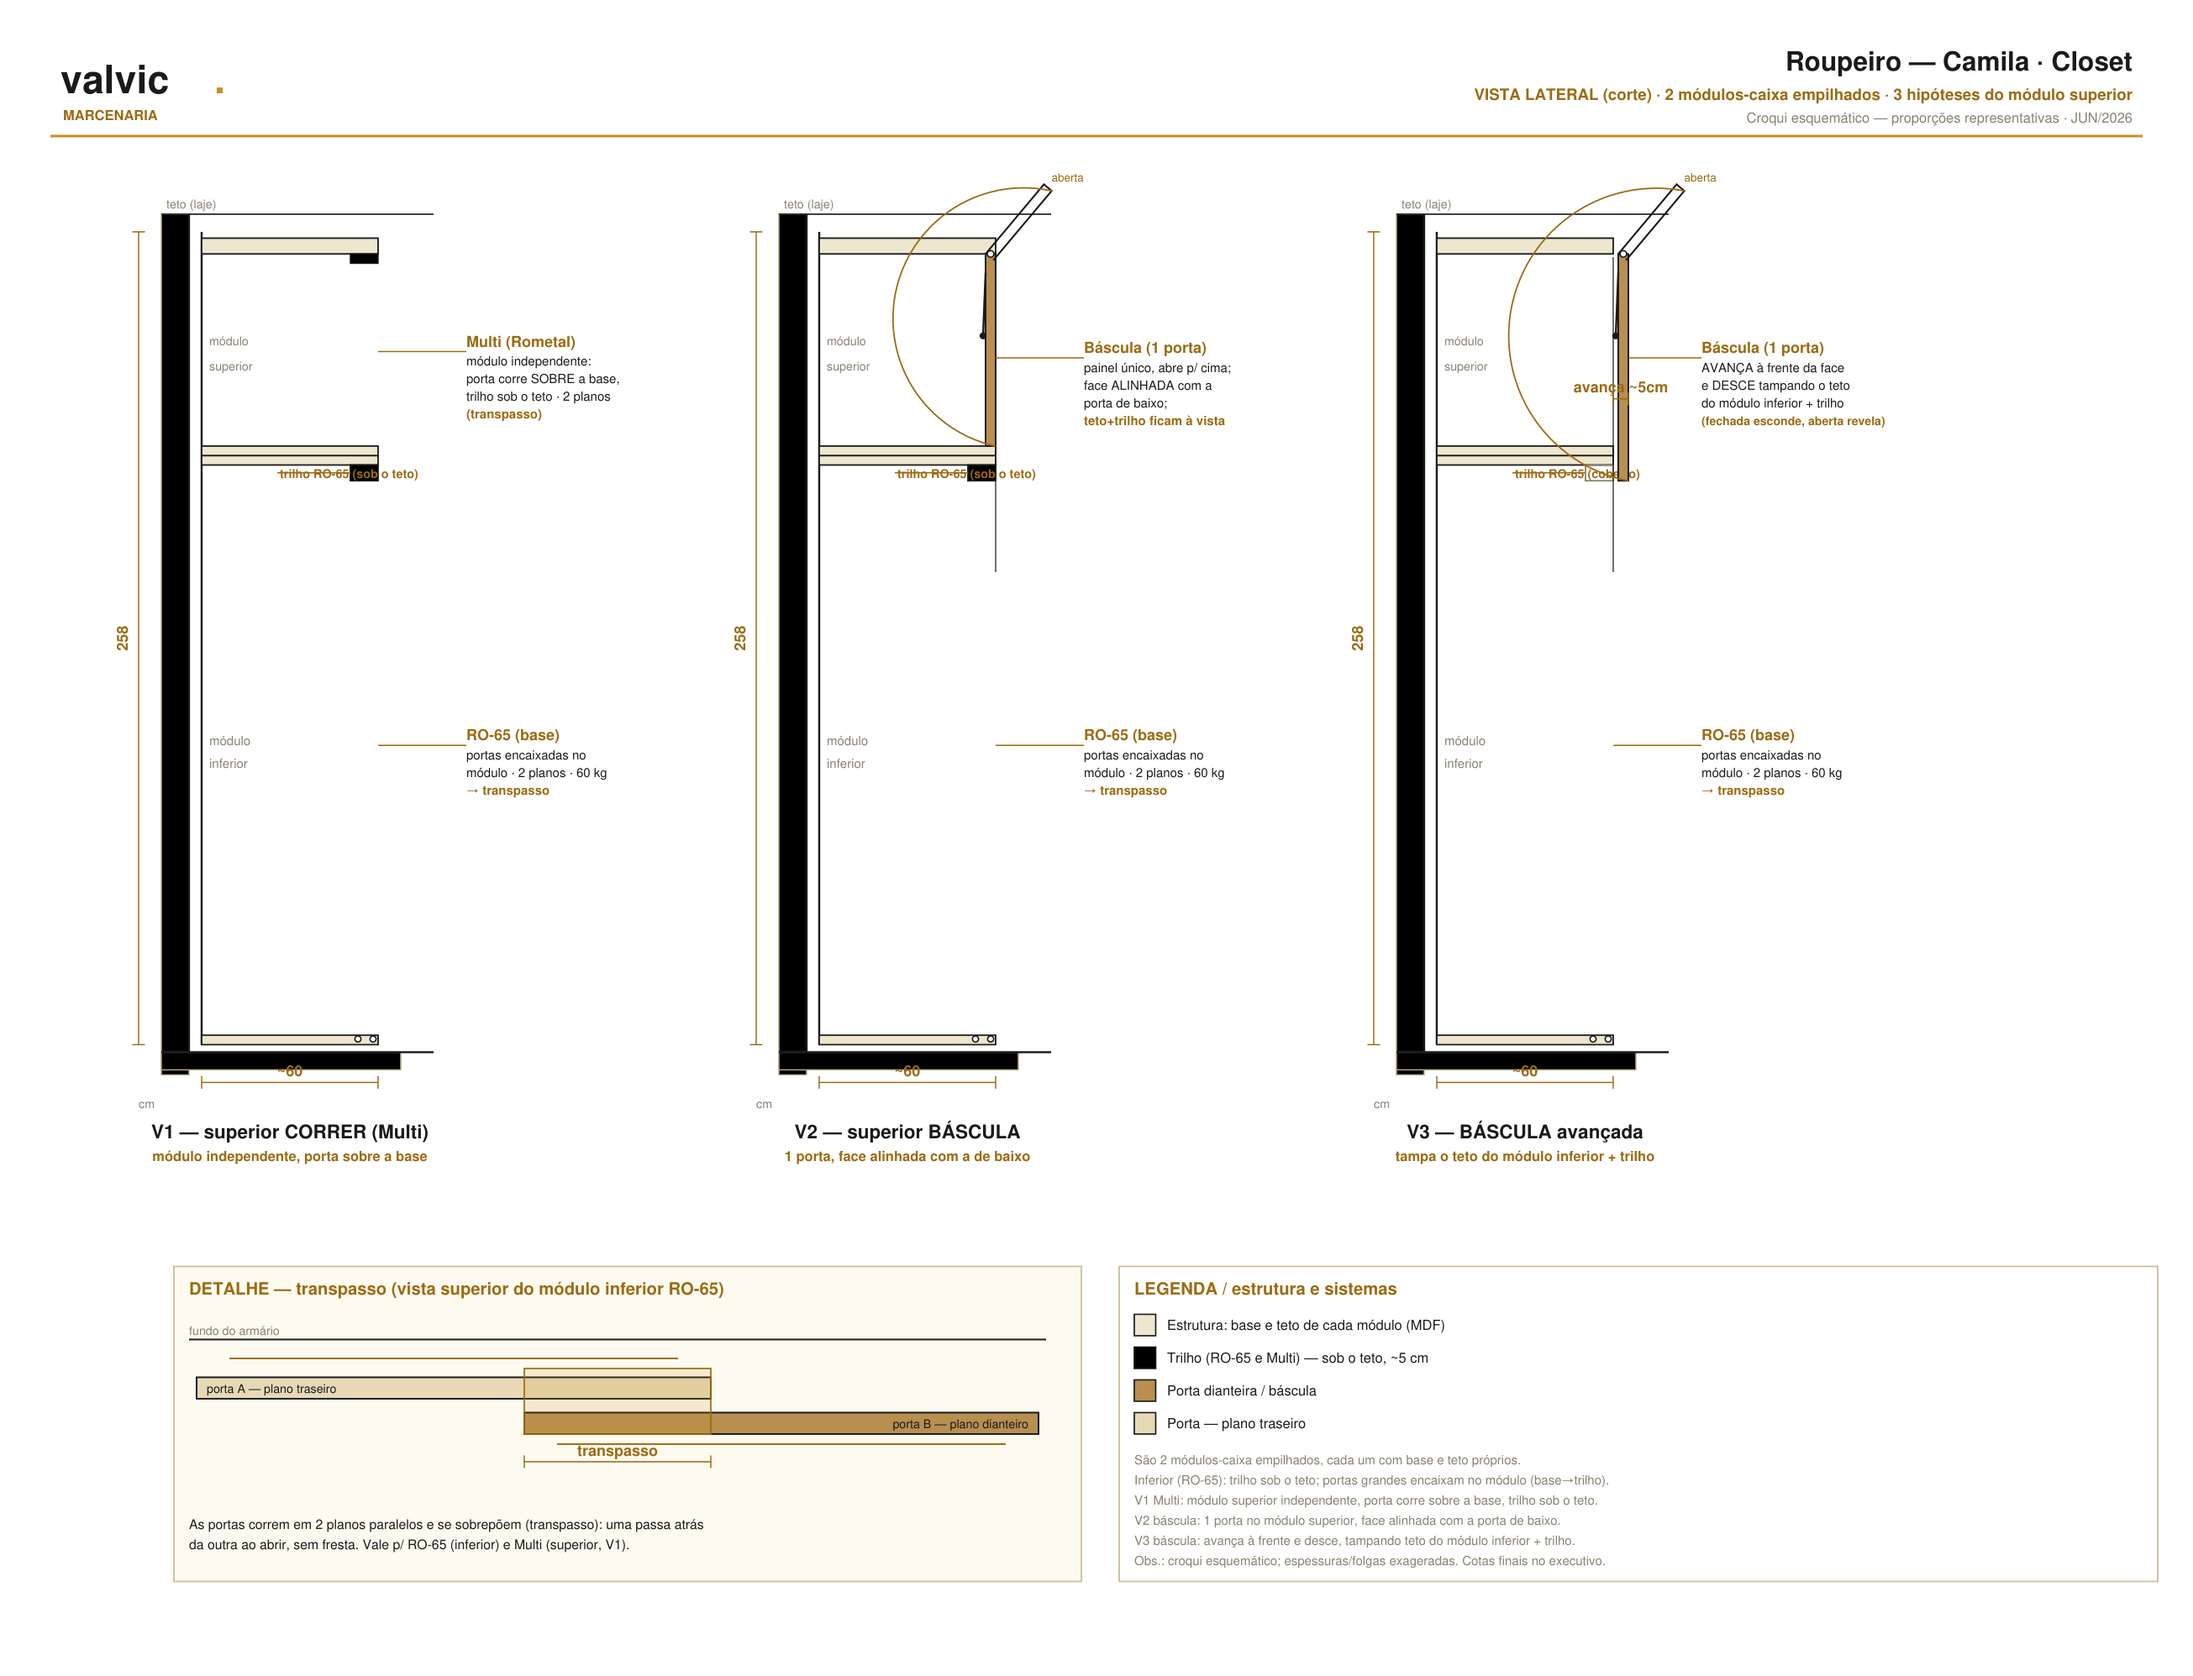
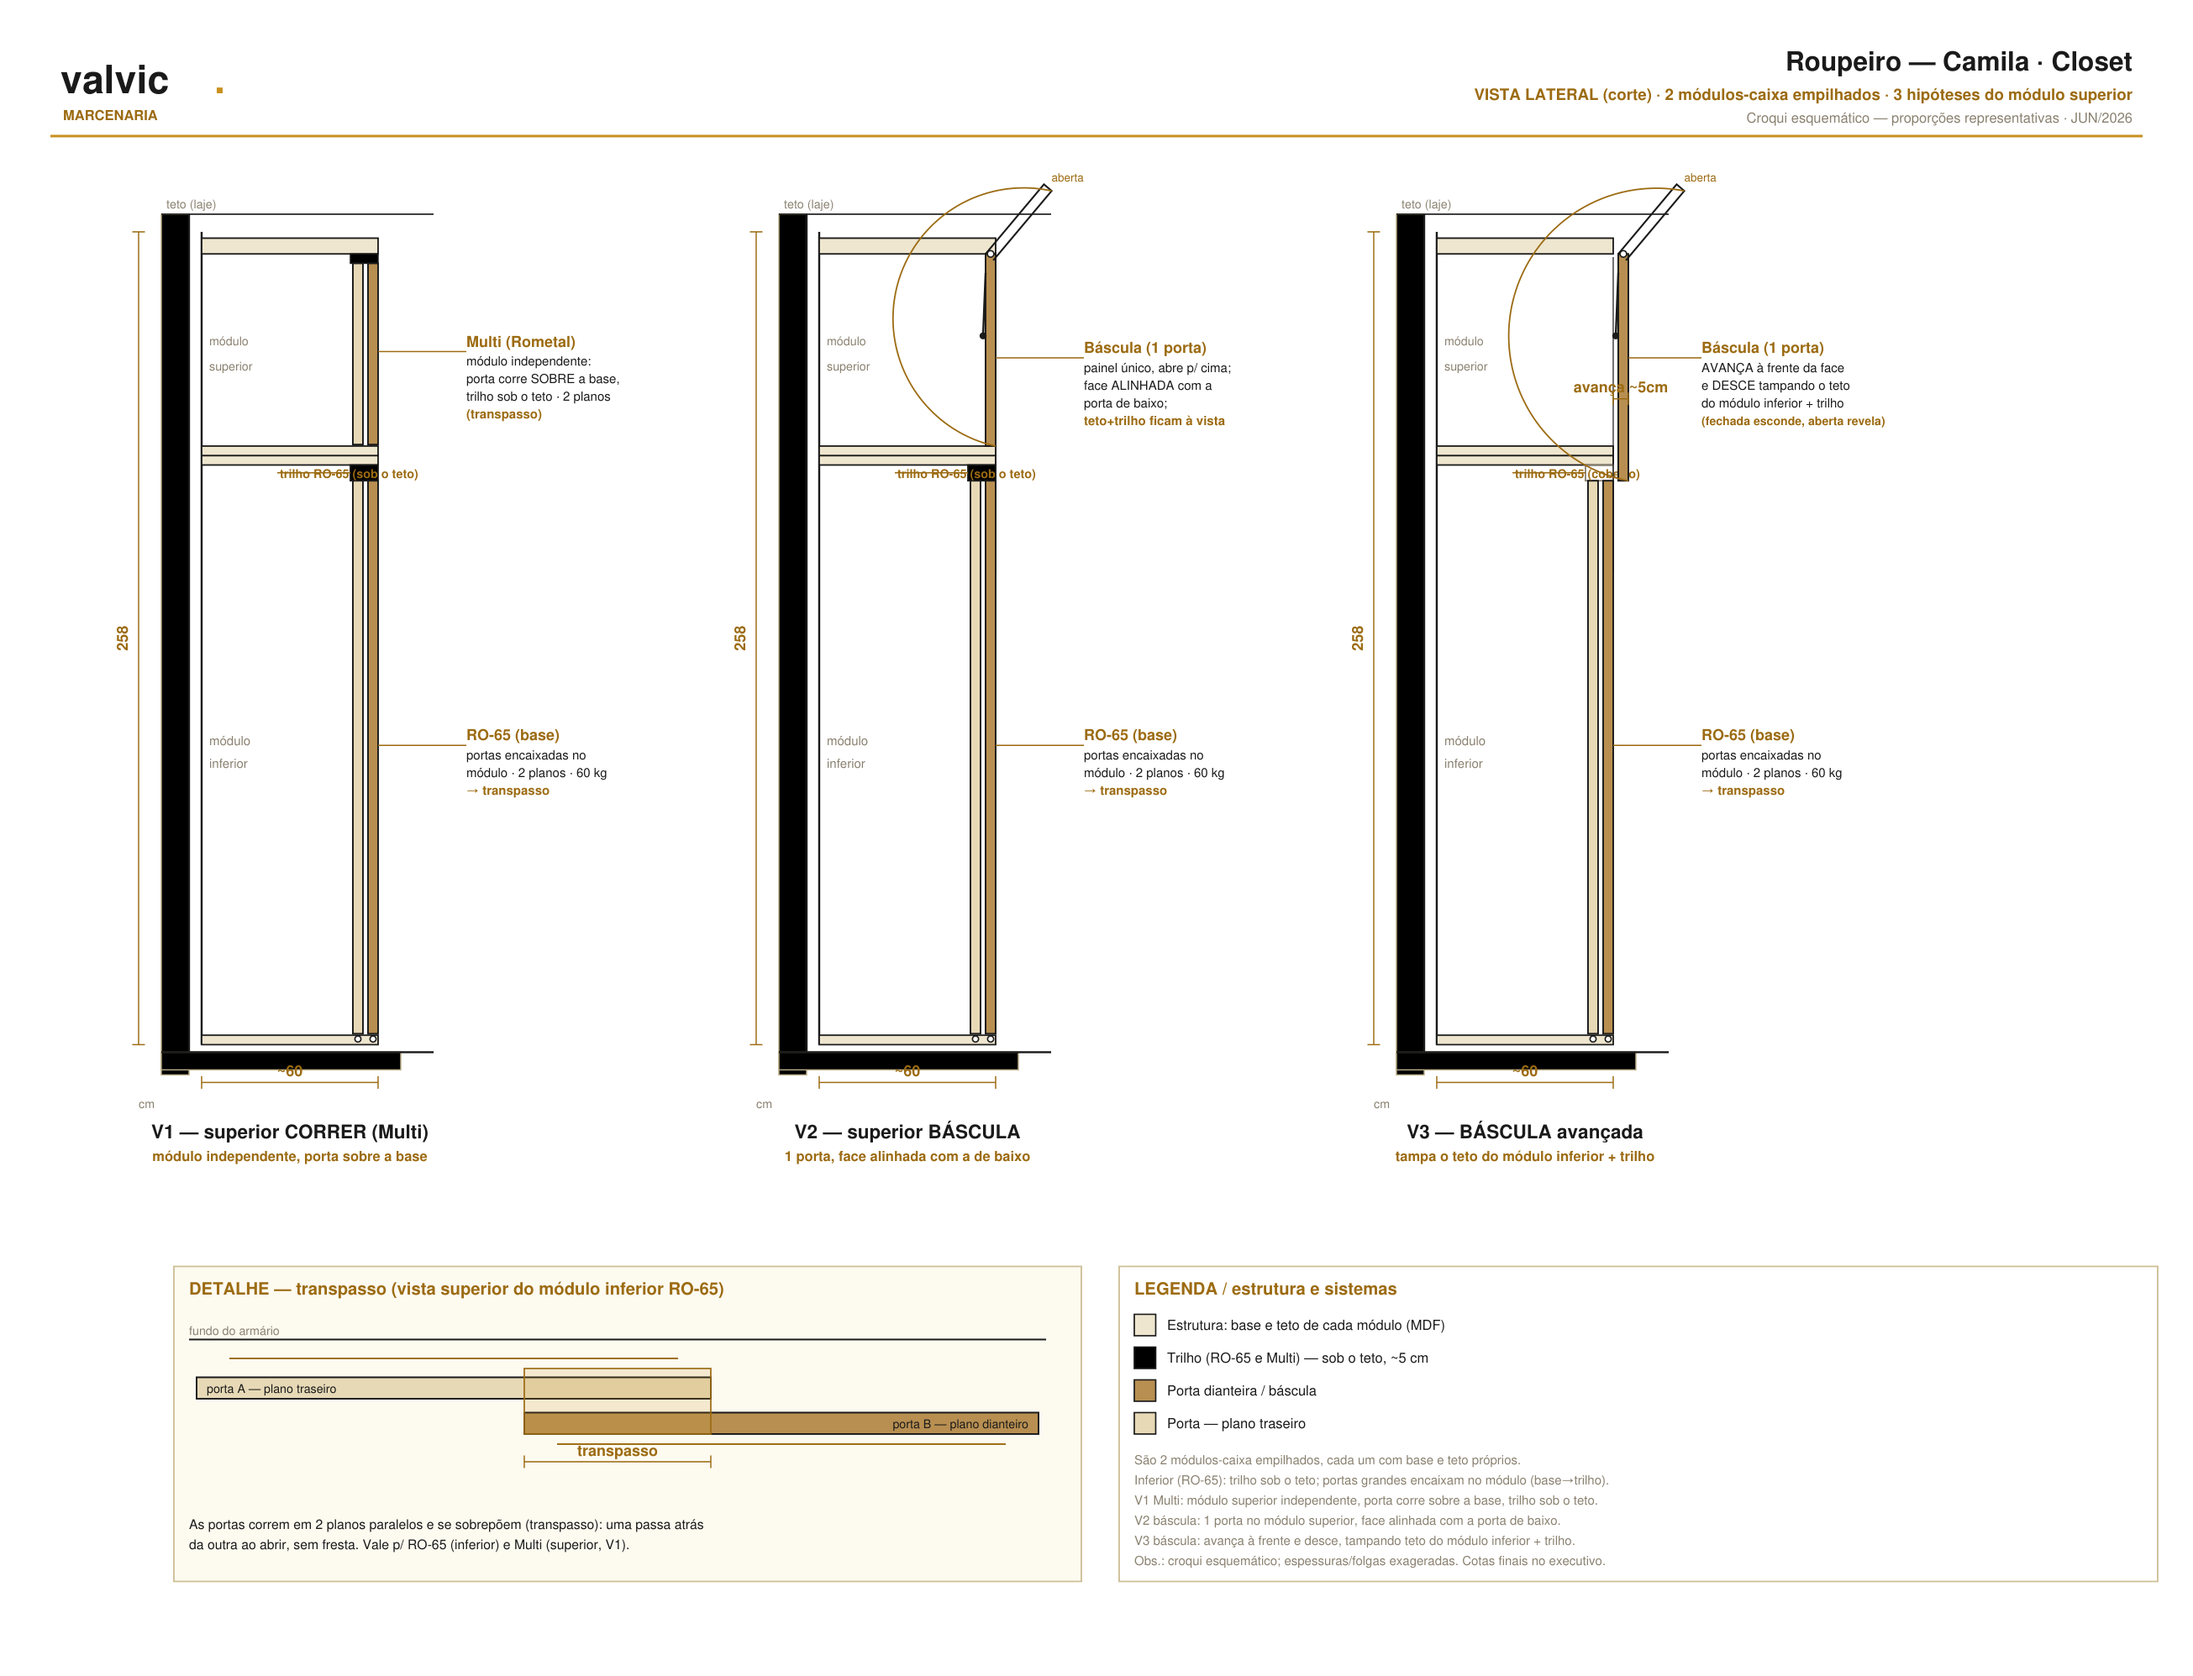
Croqui roupeiro Camila v4 — corrige portas que não renderizavam
Bug: os retângulos das portas RO-65 (inferiores, nas 3 versões) e Multi
(superior da V1) tinham altura NEGATIVA (topo/fundo trocados no cálculo Y),
então o SVG não desenhava. Corrigido (y = topo, altura positiva).

Agora aparecem: portas de baixo (2 planos, com roldana na base) em todas as
versões e a Multi (2 planos) na V1. Estrutura dos 2 módulos-caixa + trilho sob
o teto + básculas (V2 alinhada / V3 avançada) mantidos.

Claude-Session: https://claude.ai/code/session_01SoG3tw6CYMg9zoDQiLGo9j

Changed region(s): [[0.1552, 0.1554, 0.1862, 0.6216], [0.7138, 0.2797, 0.7448, 0.6216], [0.4345, 0.2797, 0.4655, 0.6216]]

diff --git a/.claude/skills/orcamentista-marcenaria/projetos/croqui-roupeiro-camila.py b/.claude/skills/orcamentista-marcenaria/projetos/croqui-roupeiro-camila.py
@@ -64,8 +64,8 @@ def panel(ox, kind, titulo, sub):
     trilho_hidden=(kind=="tampa")
     rect(bp0-2,Y(TRIL[1]),xF-(bp0-2),Y(TRIL[0])-Y(TRIL[1]),fill=("none" if trilho_hidden else "url(#trk)"),col=(GRAY if trilho_hidden else INK),wd=1.2,dash=("3 2" if trilho_hidden else None))
     # ---- PORTAS INFERIORES RO-65 (2 planos), encaixadas no módulo (base->trilho) ----
-    rect(bp0,Y(LB[1]+0.5),dt,Y(TRIL[0])-Y(LB[1]+0.5),fill=BACK,col=INK)   # plano traseiro
-    rect(fp0,Y(LB[1]+0.5),dt,Y(TRIL[0])-Y(LB[1]+0.5),fill=WOOD,col=INK)   # plano dianteiro (face em xF)
+    rect(bp0,Y(TRIL[0]),dt,Y(LB[1]+0.5)-Y(TRIL[0]),fill=BACK,col=INK)   # plano traseiro
+    rect(fp0,Y(TRIL[0]),dt,Y(LB[1]+0.5)-Y(TRIL[0]),fill=WOOD,col=INK)   # plano dianteiro (face em xF) (face em xF)
     circ(bp0+dt/2,Y(LB[1])+3,2.4,fill="#fff",col=INK); circ(fp0+dt/2,Y(LB[1])+3,2.4,fill="#fff",col=INK)
     line(fp0+dt,Y(95),cx,Y(95),GDEEP,1,dash="3 3"); t(cx,Y(95)-4,"RO-65 (base)",12,GDEEP,"start","700")
     t(cx,Y(95)+11,"portas encaixadas no",10,INK); t(cx,Y(95)+25,"módulo · 2 planos · 60 kg",10,INK); t(cx,Y(95)+39,"→ transpasso",10,GDEEP,"start","700")
@@ -75,8 +75,8 @@ def panel(ox, kind, titulo, sub):
     # ---- MÓDULO SUPERIOR ----
     if kind=="multi":
         rect(bp0-2,Y(MTRIL[1]),xF-(bp0-2),Y(MTRIL[0])-Y(MTRIL[1]),fill="url(#trk)",col=INK,wd=1.0)  # trilho multi sob teto sup
-        rect(bp0,Y(UBASE[1]+0.5),dt,Y(MTRIL[0])-Y(UBASE[1]+0.5),fill=BACK,col=INK)
-        rect(fp0,Y(UBASE[1]+0.5),dt,Y(MTRIL[0])-Y(UBASE[1]+0.5),fill=WOOD,col=INK)
+        rect(bp0,Y(MTRIL[0]),dt,Y(UBASE[1]+0.5)-Y(MTRIL[0]),fill=BACK,col=INK)
+        rect(fp0,Y(MTRIL[0]),dt,Y(UBASE[1]+0.5)-Y(MTRIL[0]),fill=WOOD,col=INK)
         line(fp0+dt,Y(220),cx,Y(220),GDEEP,1,dash="3 3"); t(cx,Y(220)-4,"Multi (Rometal)",12,GDEEP,"start","700")
         t(cx,Y(220)+11,"módulo independente:",10,INK); t(cx,Y(220)+25,"porta corre SOBRE a base,",10,INK)
         t(cx,Y(220)+39,"trilho sob o teto · 2 planos",10,INK); t(cx,Y(220)+53,"(transpasso)",10,GDEEP,"start","700")
